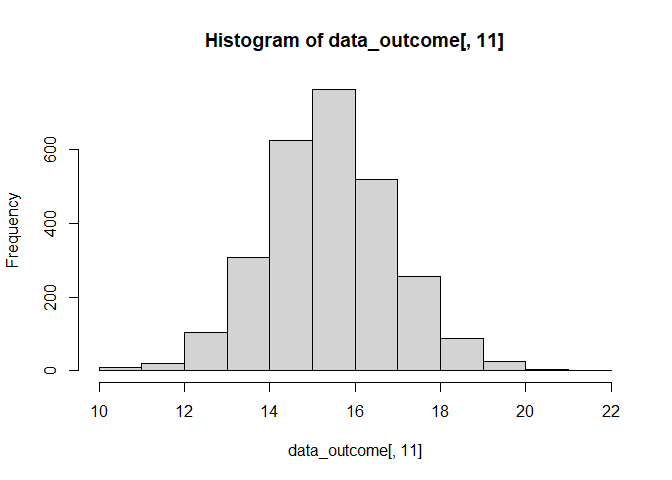
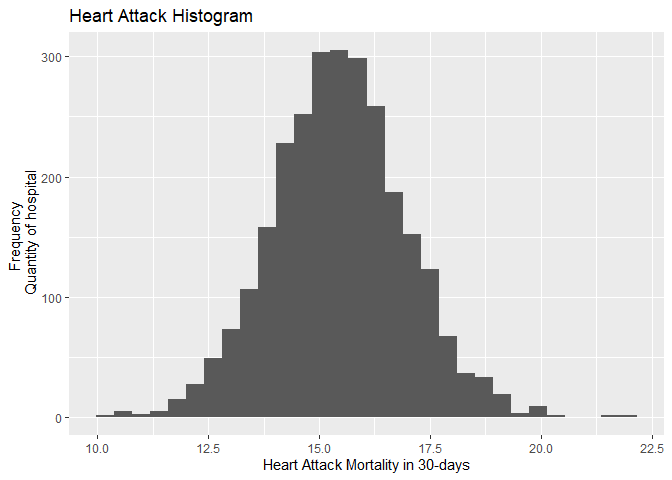
Fixing dates in Week 4 R files. Updating the Histogram in Rmd.

diff --git a/Week 4/README.md b/Week 4/README.md
@@ -151,7 +151,12 @@ data_outcome[, 11] <- as.numeric(data_outcome[, 11])
 
 ## You may get a warning about NAs being introduced; that is okay
 # Create a histogram
-hist(data_outcome[, 11])
+ggplot2::ggplot(data_outcome,
+                aes(x = data_outcome[, 11])) +
+    geom_histogram(show.legend = FALSE) + 
+    ggtitle("Heart Attack Histogram") +
+    xlab("Heart Attack Mortality in 30-days") +
+    ylab("Frequency \n Quantity of hospital")
 ```
 
 ![](README_files/figure-gfm/histogram-1.png)<!-- -->
